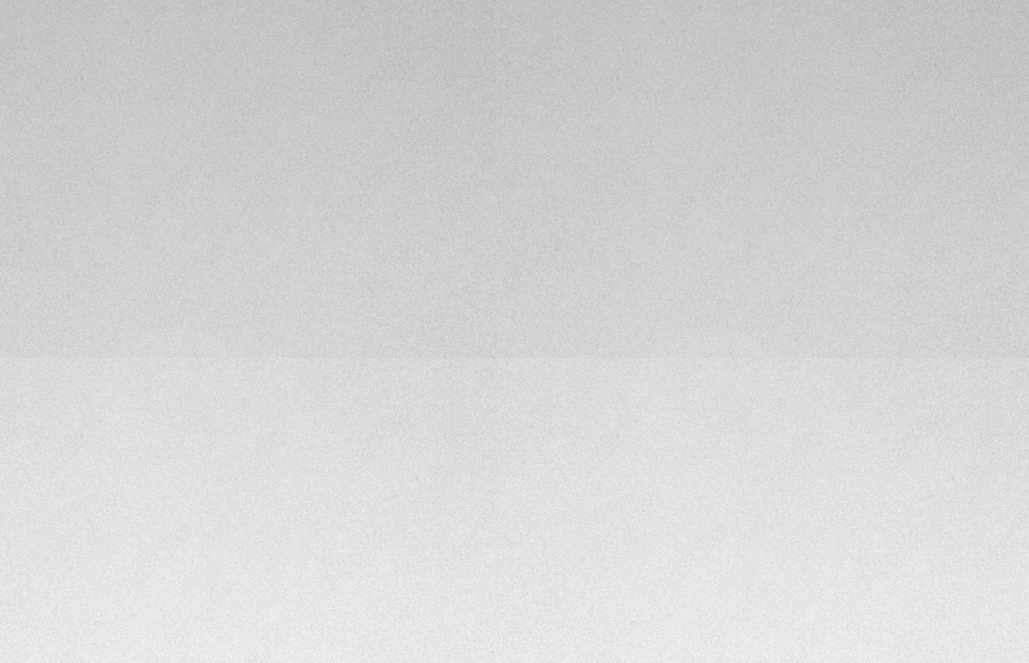
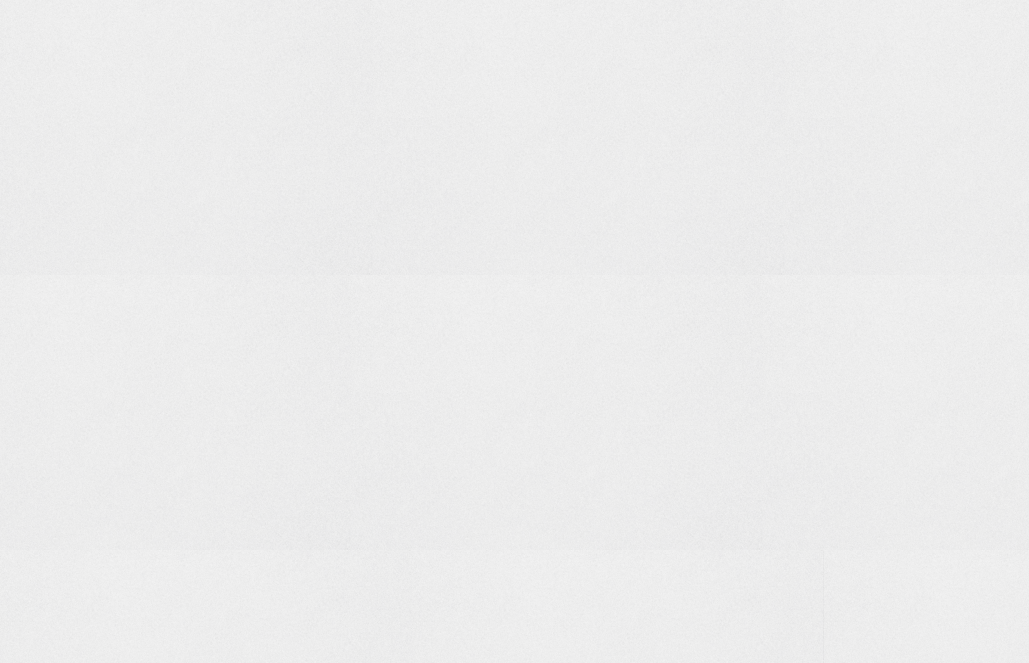
loader tweaks

diff --git a/src/Components/MainPage.js b/src/Components/MainPage.js
@@ -56,7 +56,7 @@ const titleStyle = {
     whiteSpace: 'pre',
     fontSize: 7,
     color: 'var(--title-color)',
-    textShadow: '2px 2px #8f8f8f, -2px -2px white',
+    textShadow: '2px 2px #8f8f8f, -2px -2px #eee',
     // position: 'absolute',
     // bottom: 0,
   }

diff --git a/src/App.css b/src/App.css
@@ -7,7 +7,7 @@
   --font-fam: 'Syne Mono';
   --font-color: rgb(225, 225, 225);
   --title-color: rgb(31, 31, 31);
-  --app-background: rgb(218, 218, 218);
+  --app-background: rgb(212, 212, 212);
   --title-url: '/title.png';
   --font-size: 14px !important;
 }

diff --git a/src/Components/Output.css b/src/Components/Output.css
@@ -19,11 +19,11 @@
 
   @keyframes bouncebg {
     0%, 100% {
-      transform: translate(20px, -10px);
+      transform: translate(-20px, 10px);
 
     }
     50% {
-      transform: translate(5px, 10px);
+      transform: translate(15px, -10px);
     }
   }
 
